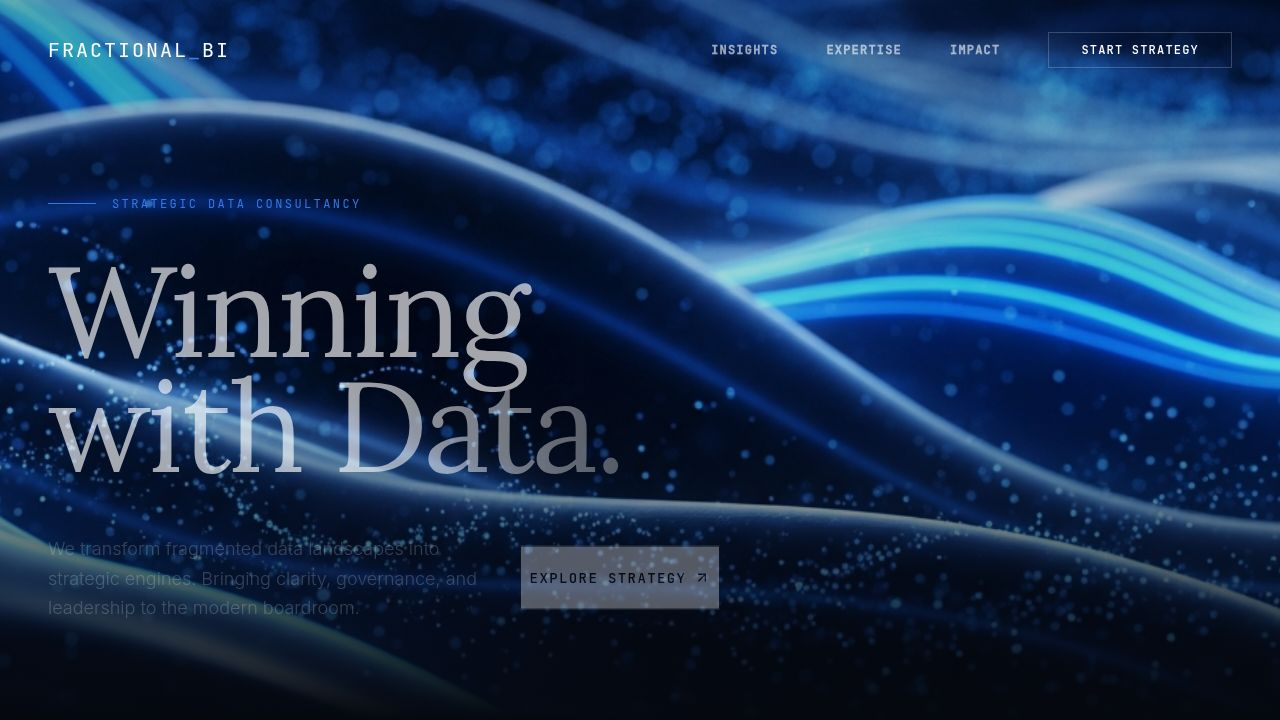
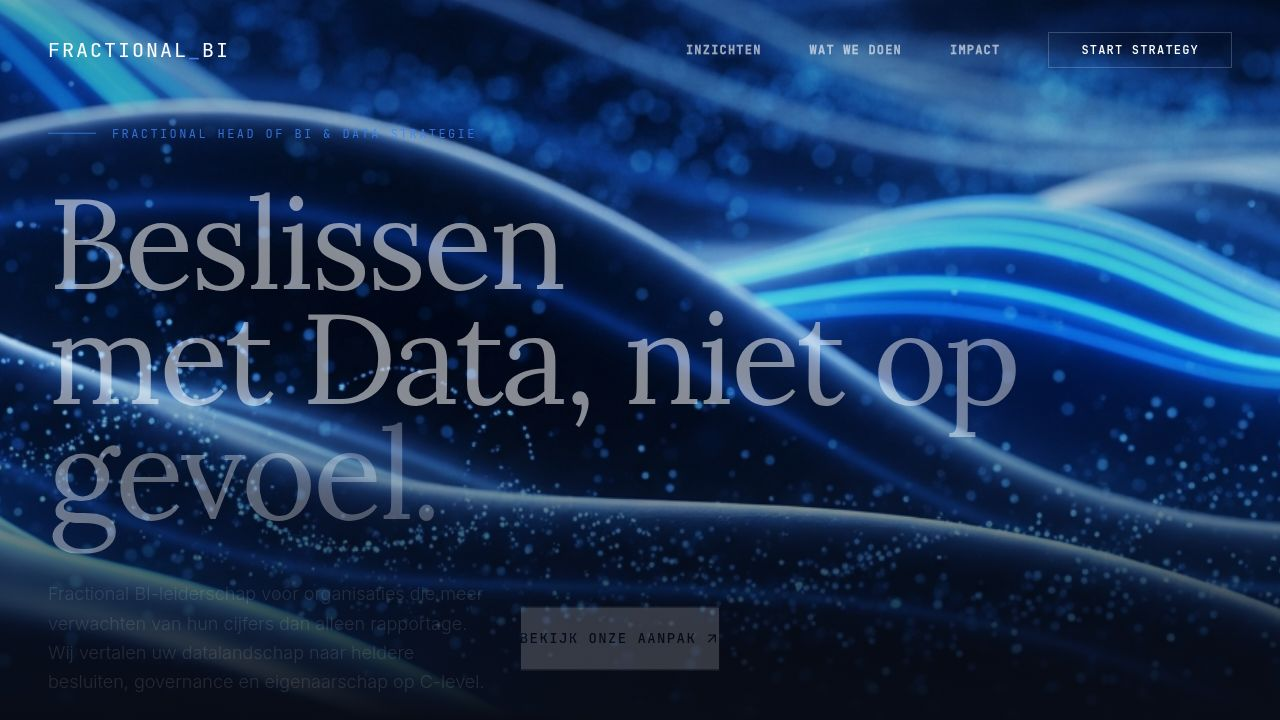
Make website visually lighter and improve content clarity
Update the global background color for a less dark appearance and adjust sections to use a lighter background for better contrast.

Replit-Commit-Author: Agent
Replit-Commit-Session-Id: 920cdaef-112c-42d7-9c5a-bf232a47e293
Replit-Commit-Checkpoint-Type: full_checkpoint
Replit-Commit-Event-Id: 8dabee49-f29e-4f12-bdb0-e61c3e4ca1bc
Replit-Commit-Screenshot-Url: https://storage.googleapis.com/screenshot-production-us-central1/30cc1b7e-116b-446f-aa49-20f8dd934e49/920cdaef-112c-42d7-9c5a-bf232a47e293/VZQAiSr
Replit-Helium-Checkpoint-Created: true

diff --git a/client/src/pages/home.tsx b/client/src/pages/home.tsx
@@ -130,33 +130,57 @@ export default function Home() {
 
       <WhatWeDo />
 
-      {/* Samenwerkingsmodel */}
-      <section className="py-24 bg-background border-t border-white/5">
-        <div className="container mx-auto px-6 md:px-12 grid lg:grid-cols-3 gap-10">
-          <div>
+      {/* Hoe we werken */}
+      <section className="py-24 bg-surface-light border-t border-white/5">
+        <div className="container mx-auto px-6 md:px-12">
+          <div className="mb-12 max-w-3xl">
             <span className="font-mono text-xs text-primary tracking-[0.2em] uppercase mb-4 block" data-testid="text-collab-kicker">
               Hoe we werken
             </span>
-            <h2 className="text-3xl md:text-4xl font-serif text-white mb-4" data-testid="text-collab-heading">
-              Van diagnose naar gedragen BI-agenda.
+            <h2 className="text-4xl md:text-5xl font-serif text-white mb-4" data-testid="text-collab-heading">
+              In 90 dagen van ruis naar regie.
             </h2>
             <p className="text-white/60 text-lg" data-testid="text-collab-body">
-              In plaats van grote programmas werken we in heldere, afgebakende trajecten van 90 dagen. Met zichtbare voortgang in elke boardmeeting.
+              Geen eindeloze programma's, maar een strak kader: drie heldere fasen die elke boardmeeting tastbare voortgang laten zien.
             </p>
           </div>
 
-          <div className="space-y-4">
-            <h3 className="font-mono text-xs text-white/50 uppercase tracking-[0.25em] mb-2">Fase 1 c Diagnose</h3>
-            <p className="text-sm text-white/70">
-              In een reeks gesprekken met bestuur, finance en BI brengen we de beslismomenten in kaart. We kijken niet naar alle data, maar naar de tien besluiten die er echt toe doen.
-            </p>
-          </div>
+          <div className="grid lg:grid-cols-3 gap-6">
+            <div className="border border-white/10 bg-card/70 p-6 flex flex-col justify-between hover:border-primary/60 transition-colors">
+              <div>
+                <span className="inline-flex items-center text-[11px] font-mono uppercase tracking-[0.2em] text-white mb-3 px-3 py-1 rounded-full bg-gradient-to-r from-primary to-cyan-400" data-testid="badge-phase-1">
+                  Fase 1 b7 Boardroom diagnose
+                </span>
+                <h3 className="text-xl font-serif text-white mb-2">Waar knelt besluitvorming?</h3>
+                <p className="text-sm text-white/70 leading-relaxed">
+                  In gesprekken met directie, finance en BI brengen we de tien cruciale beslismomenten in kaart. Niet alle data, wel alle besluiten die ertoe doen.
+                </p>
+              </div>
+            </div>
 
-          <div className="space-y-4">
-            <h3 className="font-mono text-xs text-white/50 uppercase tracking-[0.25em] mb-2">Fase 2 c Roadmap & Leiderschap</h3>
-            <p className="text-sm text-white/70">
-              Op basis daarvan ontwerpen we een compacte BI-roadmap en nemen we tijdelijk het leiderschap over de uitvoering  zodat governance, prioritering en teams op e9e9n lijn komen.
-            </p>
+            <div className="border border-white/10 bg-card/70 p-6 flex flex-col justify-between hover:border-secondary/60 transition-colors">
+              <div>
+                <span className="inline-flex items-center text-[11px] font-mono uppercase tracking-[0.2em] text-white mb-3 px-3 py-1 rounded-full bg-gradient-to-r from-secondary to-amber-400" data-testid="badge-phase-2">
+                  Fase 2 b7 BI-roadmap
+                </span>
+                <h3 className="text-xl font-serif text-white mb-2">Eén compacte agenda.</h3>
+                <p className="text-sm text-white/70 leading-relaxed">
+                  We vertalen de diagnose naar een 90-dagen BI-roadmap: welke rapportages verdwijnen, welke blijven, welke nieuw zijn én wie waarvoor eigenaar is.
+                </p>
+              </div>
+            </div>
+
+            <div className="border border-white/10 bg-card/70 p-6 flex flex-col justify-between hover:border-emerald-400/70 transition-colors">
+              <div>
+                <span className="inline-flex items-center text-[11px] font-mono uppercase tracking-[0.2em] text-white mb-3 px-3 py-1 rounded-full bg-gradient-to-r from-emerald-400 to-primary" data-testid="badge-phase-3">
+                  Fase 3 b7 Fractional leadership
+                </span>
+                <h3 className="text-xl font-serif text-white mb-2">Leiderschap op afroep.</h3>
+                <p className="text-sm text-white/70 leading-relaxed">
+                  1–2 dagen per week nemen we tijdelijk het BI-leiderschap op ons. Governance, prioritering en teamcoaching tot de nieuwe werkwijze staat en zonder ons verder kan.
+                </p>
+              </div>
+            </div>
           </div>
         </div>
       </section>

diff --git a/client/src/components/what-we-do.tsx b/client/src/components/what-we-do.tsx
@@ -29,7 +29,7 @@ const services = [
 
 export function WhatWeDo() {
   return (
-    <section id="expertise" className="py-24 bg-surface-light relative">
+    <section id="expertise" className="py-24 bg-surface-light relative border-t border-white/5">
       <div className="container mx-auto px-6 md:px-12">
         <div className="mb-12 max-w-3xl">
           <span className="font-mono text-xs text-primary tracking-[0.2em] uppercase mb-4 block" data-testid="text-whatwedo-kicker">

diff --git a/client/src/index.css b/client/src/index.css
@@ -37,8 +37,8 @@
 }
 
 :root {
-  /* Midnight & Neon Theme */
-  --background: 222 47% 4%;     /* #050A14 - Almost Black Midnight */
+  /* Midnight & Neon Theme (iets lichter gemaakt) */
+  --background: 222 47% 6%;     /* iets lichter dan #050A14 voor meer ademruimte */
   --foreground: 210 40% 98%;    /* White */
 
   --card: 222 47% 6%;           /* Slightly lighter midnight */
